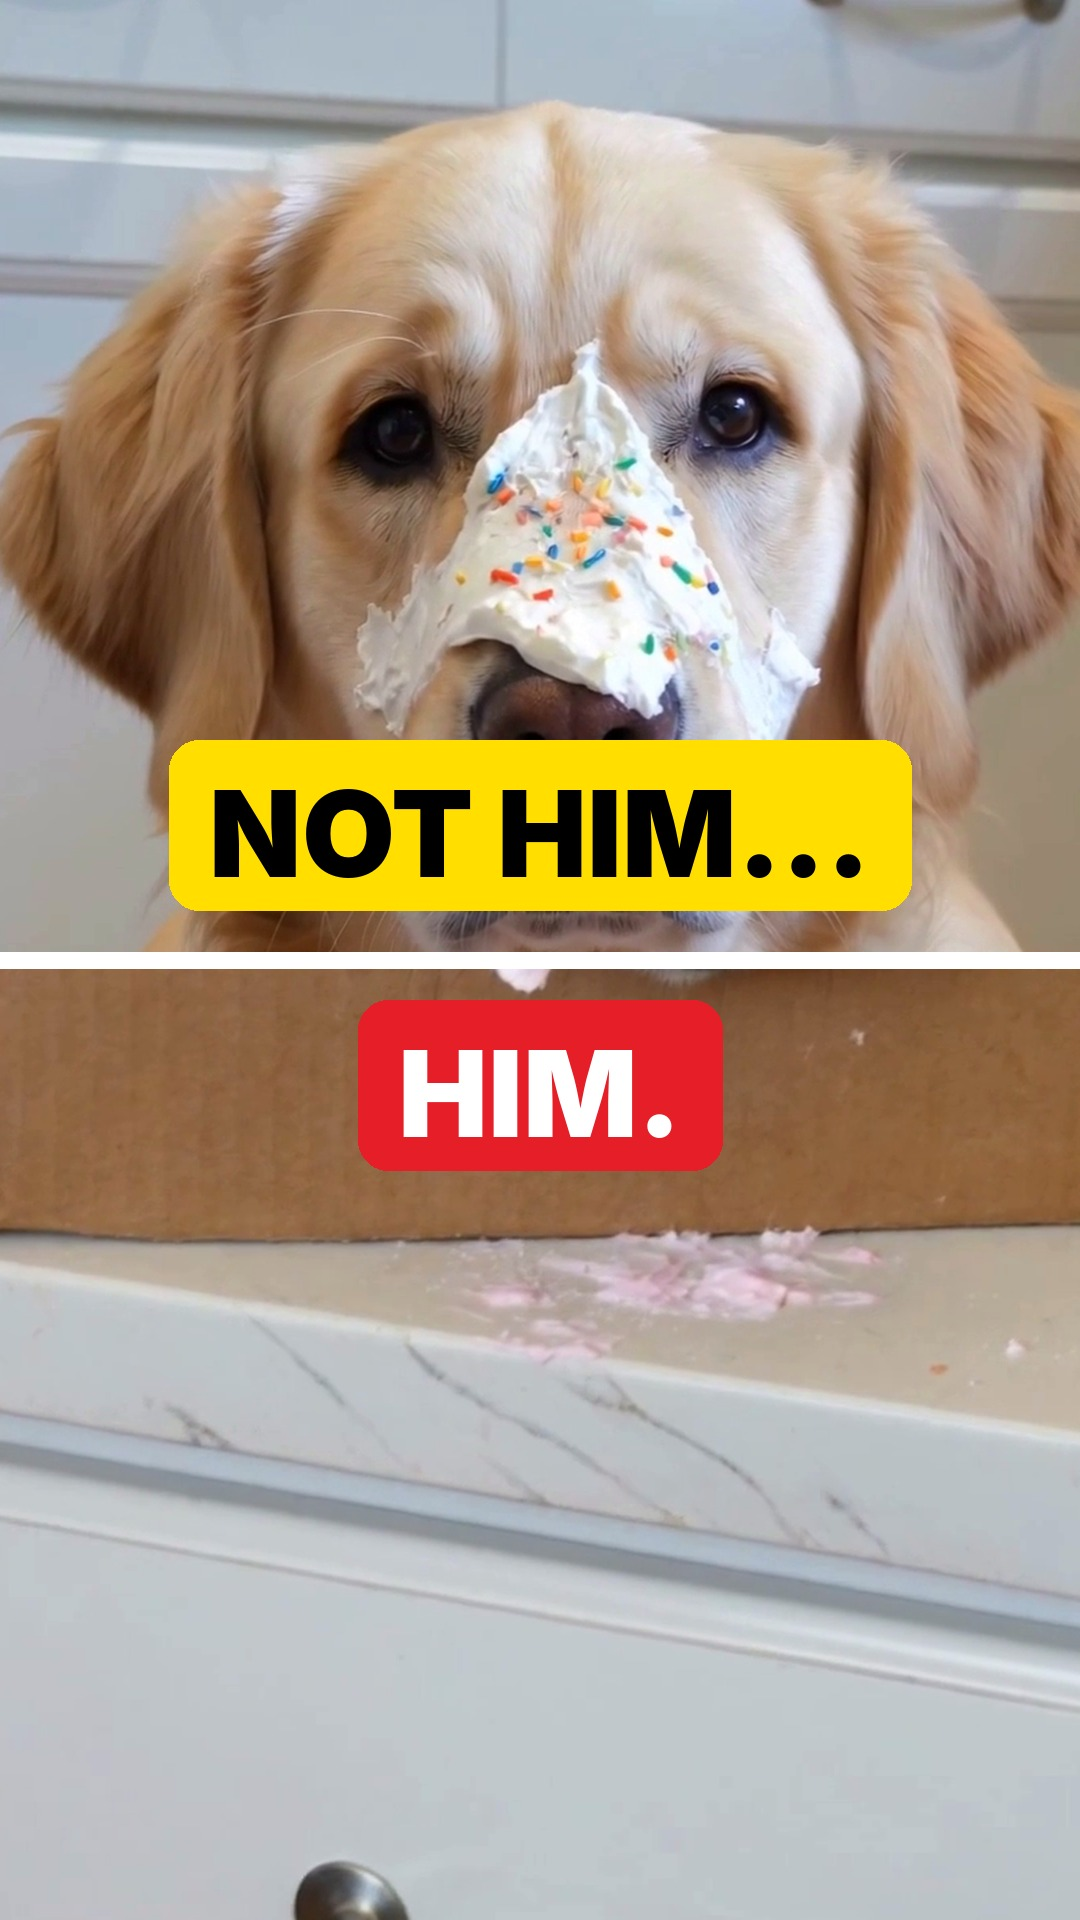
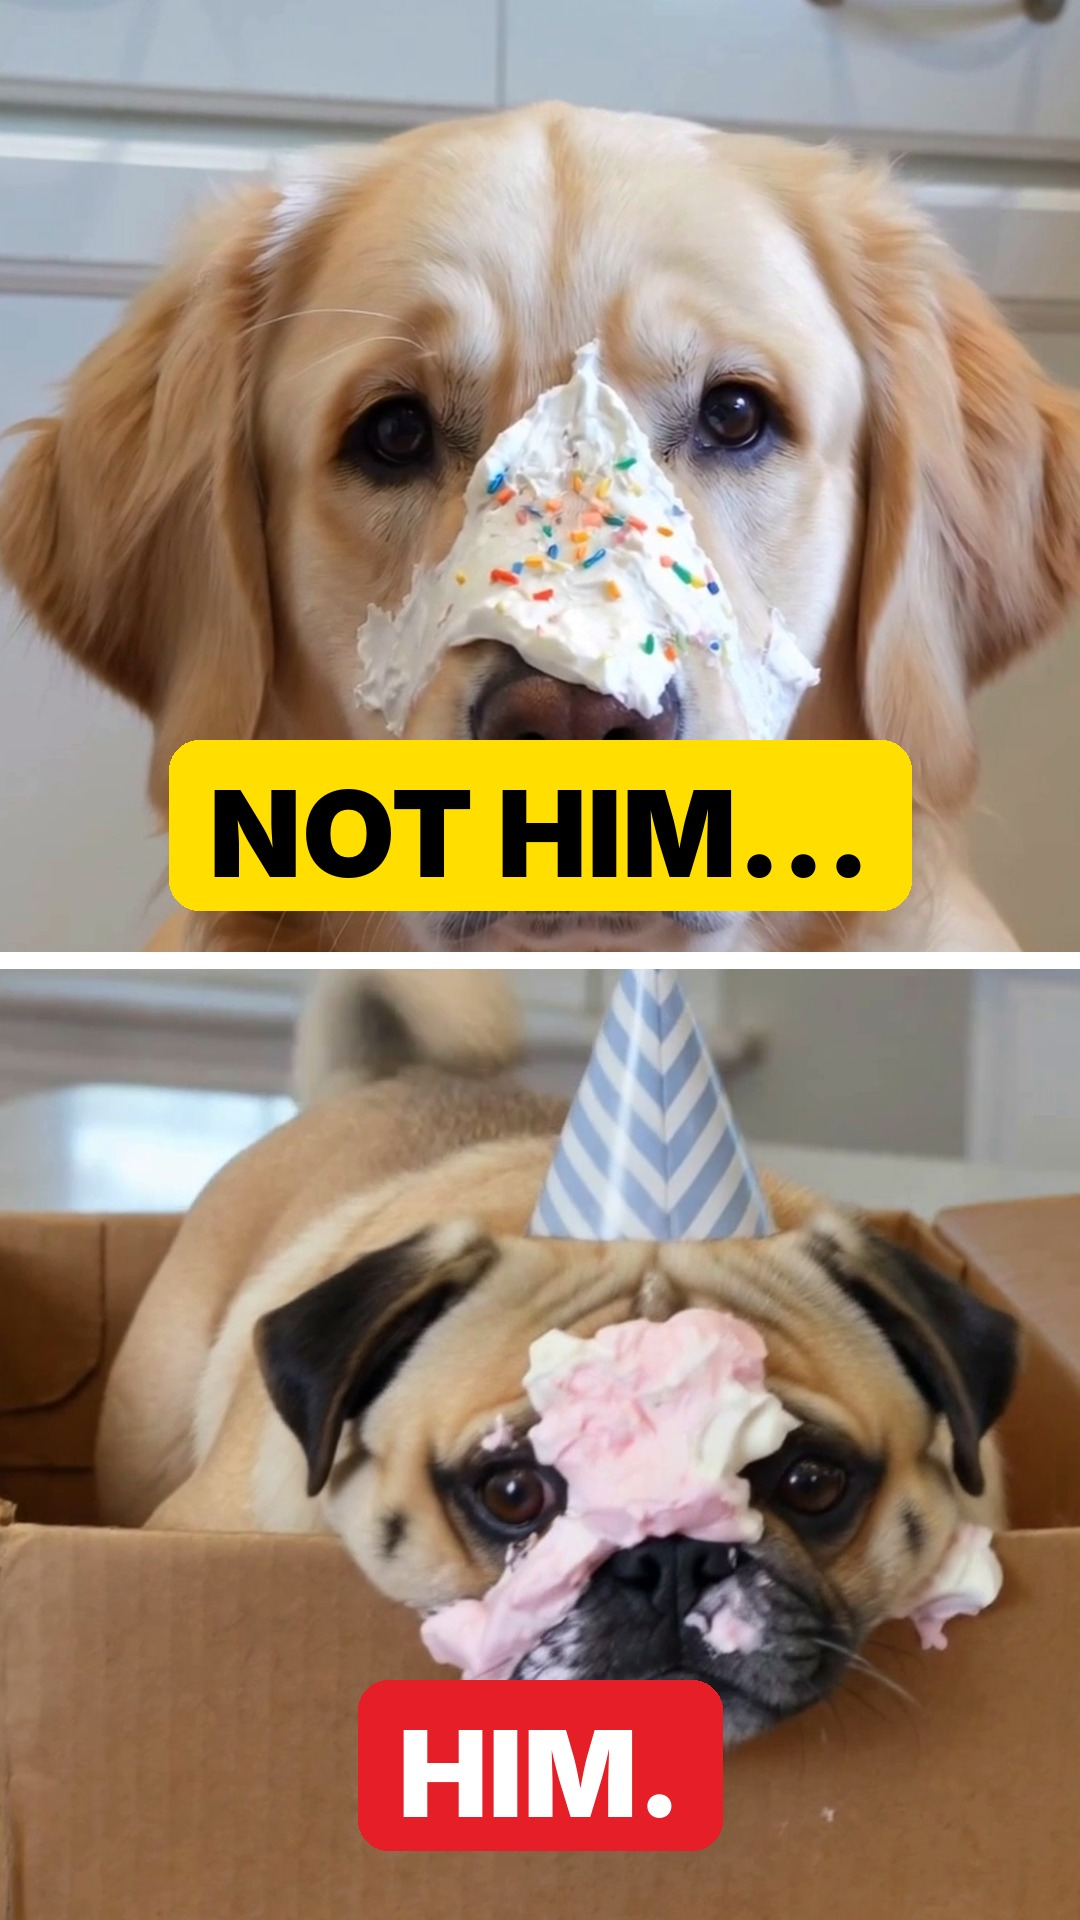
Short #001: fix thumbnail crop, update publishing kit
Claude-Session: https://claude.ai/code/session_01PsEjrBNijGWoFCjXFiKHGe

diff --git a/shorts/001-who-ate-the-cake/PUBLISHING.md b/shorts/001-who-ate-the-cake/PUBLISHING.md
@@ -35,7 +35,7 @@ On-screen text: **"HE THINKS WE CAN'T TELL"**, followed by the line "Buddy… di
 | 25–30s | Payoff | The pug burps, the owner loses it laughing, freeze-frame with a "GUILTY" stamp |
 
 ## Thumbnail concept
-Split frame: on the left, the golden retriever's frosting-covered nose with an innocent side-eye. On the right, the pug in the cake box with a party hat and its face buried in frosting. A big yellow label reads **"NOT HIM… 👉"**, with a red arrow pointing to the pug. Use high saturation and faces filling the frame.
+Top/bottom split: the golden retriever with a frosting-covered nose, labeled **"NOT HIM…"** (yellow), above the pug in the cake box wearing a party hat, labeled **"HIM."** (red). The finished file is `final/thumbnail.jpg`. It is vertical, so use it as the Shorts cover. YouTube currently lets you pick the Shorts thumbnail from a frame in the app.
 
 ## Sound design
 - Native ambient kitchen audio, the owner's voice and the animal sounds from the generated clips
